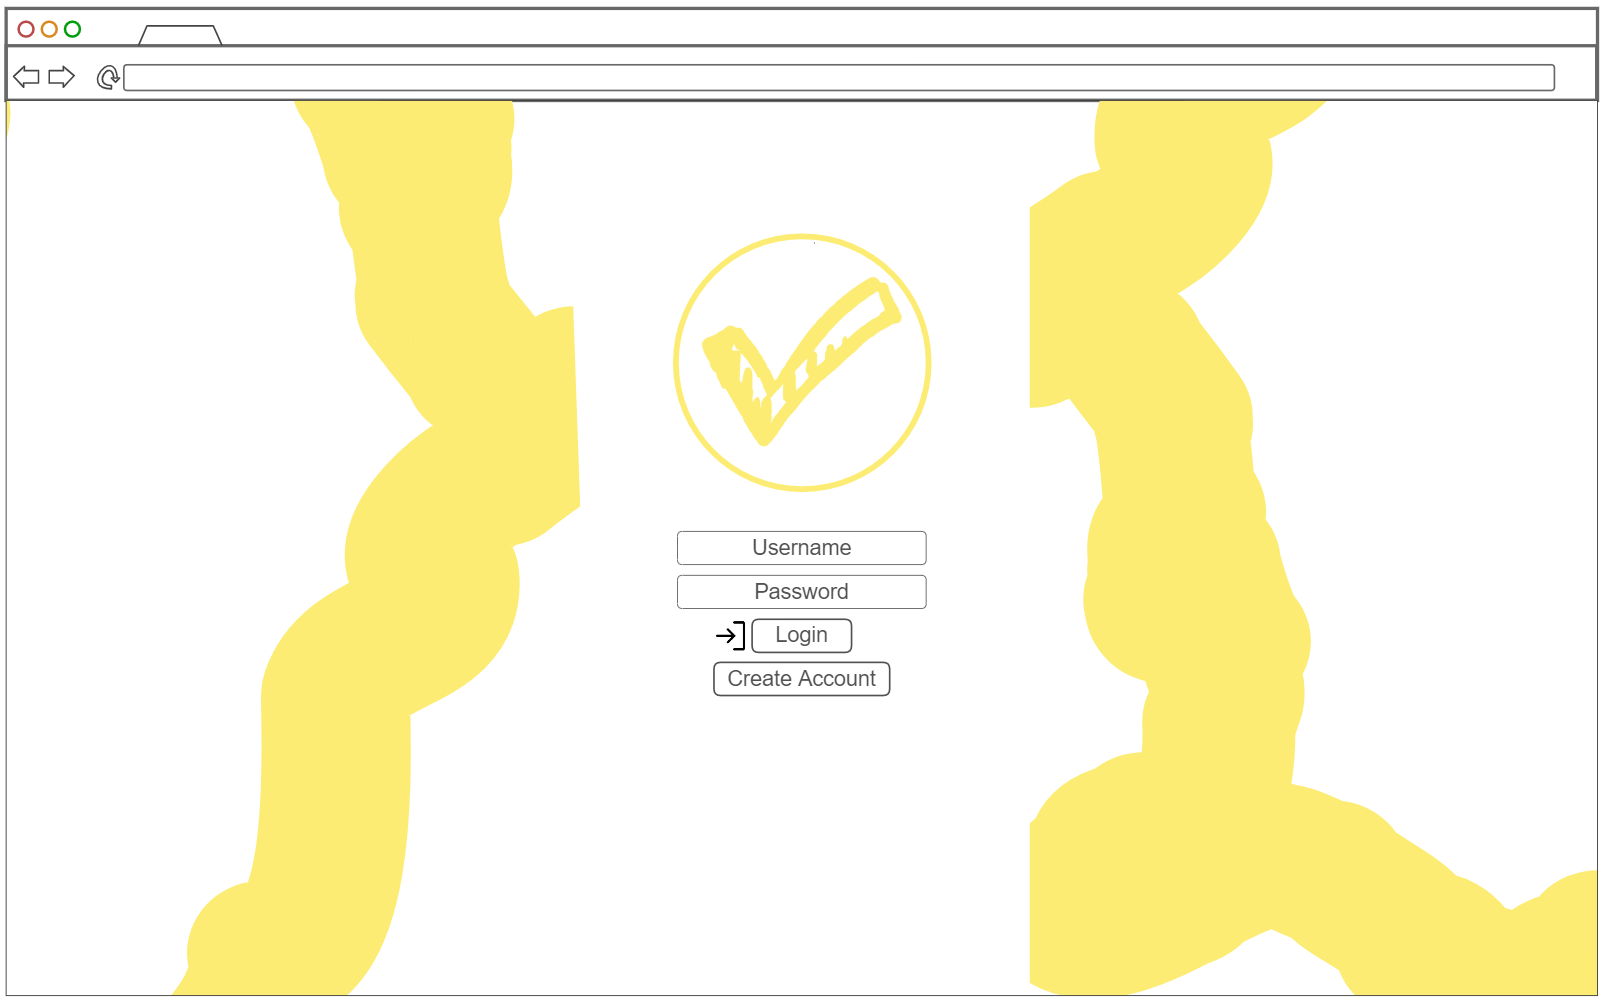
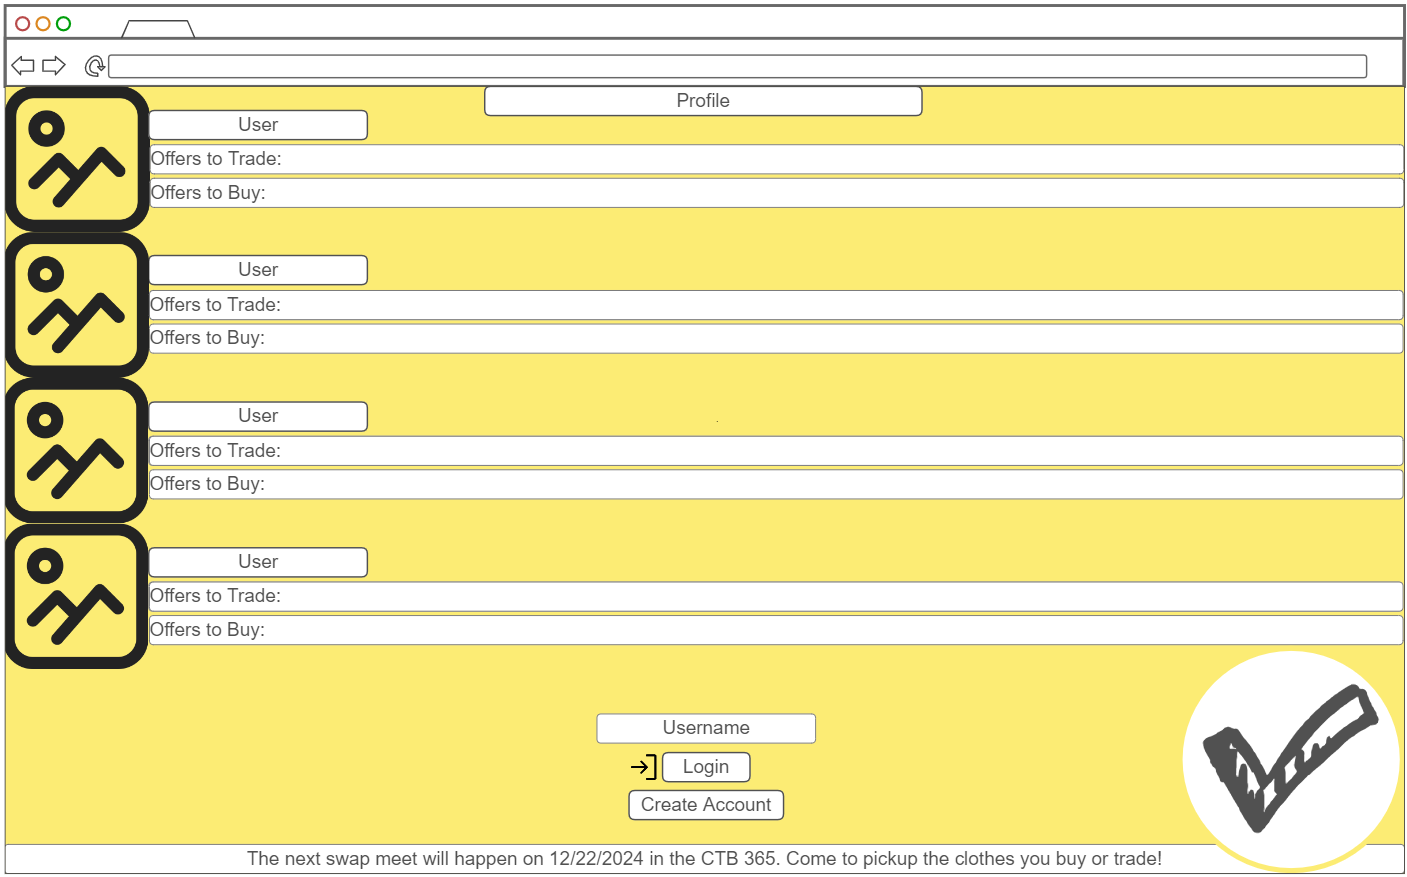
made simpler

diff --git a/README.md b/README.md
@@ -25,15 +25,9 @@ Zufas connects you with people while helping you to better your wardrobe for FRE
 
 ![Login-Page](images/login.png)
 
-![Discovery-Page](images/discovery.png)
-
-![my-Closet](images/myCloset.png)
-
-![likes](images/likes.png)
-
 ## Usage of Technologies
 
-- **HTML** - Uses four HTML pages total in correct code structures. One will be used to login, one will be used for the home/discovery page, one for likes, and the last will be for their profile.
+- **HTML** - Uses One HTML page total in correct code structures. One will be used to login, one will be used for the home/discovery page, offers to trade, and offers to buy.
 - **CSS** - Application styling that works visually on different screen sizes. Variety of color and transitions.
 - **React** - Build dynamic interfaces with a component-based approach. Will use react state management features.
 - **Service** - Backend service using the following endpoints:
@@ -48,7 +42,7 @@ Zufas connects you with people while helping you to better your wardrobe for FRE
 
 For this deliverable, I built out the structure of my application using HTML.
 
-- **HTML Pages**: Four HTML pages:
+- **HTML Pages**: One HTML page:
   - **Login Page**: Contains forms for user login.
   - **Discovery Home Page**: Displays a list of posts from all users.
   - **likes Page**: Includes chat interface for sending and receiving likes.
@@ -57,17 +51,12 @@ For this deliverable, I built out the structure of my application using HTML.
 - **Links**:
   - **Login Page**: Links to the Discovery Home Page after successful login.
   - **Discovery Home Page**: Links to individual user profiles and the likes Page.
-  - **likes Page**: Links back to the Discovery Home Page and the Profile Page.
-  - **Profile Page**: Links to the Discovery Home Page and likes Page.
 
 - **Text**:
   - **Discovery Home Page**: Describes each post, including titles and content.
-  - **likes Page**: Displays conversation text and like timestamps.
-  - **Profile Page**: Includes text descriptions of user-uploaded images and profile information.
 
 - **Images**:
   - **Discovery Home Page**: Displays images of clothing articles or other posts.
-  - **Profile Page**: Shows user-uploaded pictures.
 
 - **DB/Login**:
   - **Login Page**: Includes input fields for username and password, and a sign in/create account button.
